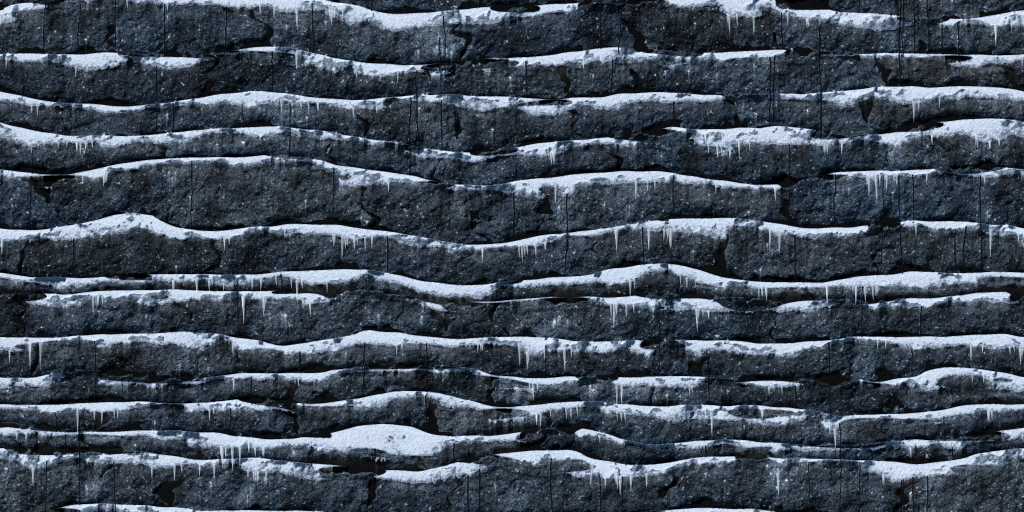
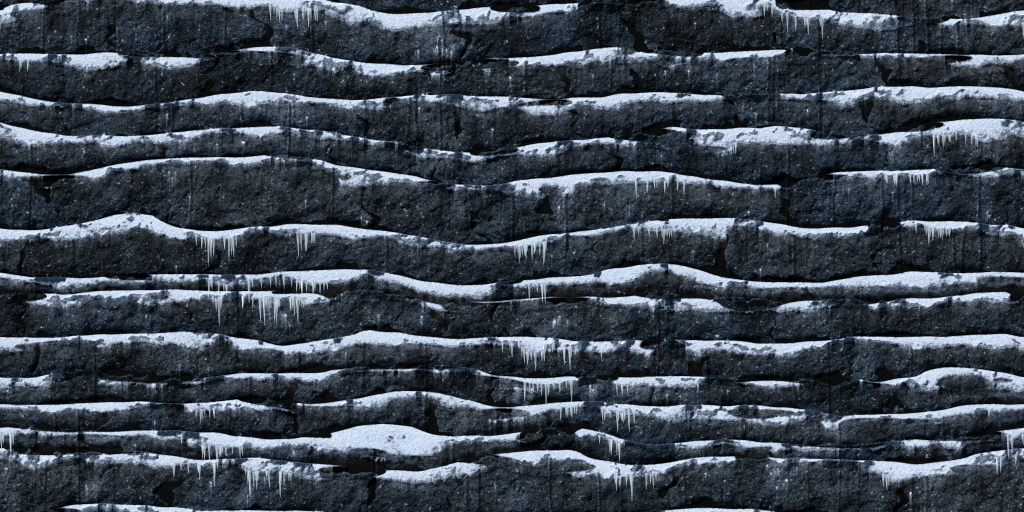
Версия 2026.11.02-121: по критику r38 — исправлена оранжевая заливка перекрытий (ошибка v117), трава ярче и теплее, пол тоннелей каньона светлый, Арктика
Ошибка v117: строка палуб пиратов в floorShade встала между «else if (WT)» и последним «else», и оранжевая заливка
150/104/62 ложилась на верх перекрытий остальных карт (стяжка города «ржавая», полы без волокон) — порядок восстановлен.
Трава долины и замков ярче и теплее (по пикселям травы и эталонов), стяжка города серая 63/57/53 с мокрой кромкой.
Каньон: корка на полу тоннелей освещена, тень под коркой короче, обломки корки плоские. Арктика: шапка тоньше,
швы глыб — мягкие впадины с фаской, порода темнее, сосульки гроздьями. Стыки балки палуб — со случайным шагом. Мох Alien оливковый.

Claude-Session: https://claude.ai/code/session_01JvXrYdG1XCH4i3GESsQzbh

diff --git a/js/terrain_visual.js b/js/terrain_visual.js
@@ -303,7 +303,7 @@ function offGlass(S, lx, ly, idx, o) {
 }
 
 /* v112: цвет мха шапки Alien до фонового света темы (×0.52/0.45/0.69): верх, середина, губа; яркость — из текстуры cap_moss */
-const MOSS_C = [[250, 240, 96], [210, 202, 78], [104, 102, 44]];
+const MOSS_C = [[196, 206, 104], [166, 176, 88], [92, 98, 50]];   /* v121 (критик r38: мох «розово-бежевая губка» 96/71/60; эталон оливковый 87/78/64 — до фонового света ×0,52/0,45/0,69) */
 /** цвет материала в точке. Результат в o: r,g,b; свечение ga/gr/gg/gb; блеск spec */
 function shadeMaterial(S, mt, x, y, t, capT, d, info, o, isBack) {
   const tl = S.tiles, LX = LIGHT.x, LY = LIGHT.y, LZ = LIGHT.z;
@@ -390,13 +390,13 @@ function shadeMaterial(S, mt, x, y, t, capT, d, info, o, isBack) {
     } else if (S.rubbleCap) {
       /* v101 (критик r35: «корка каньона белёсая 14 px; эталон 165/115/72, ~30 px, щебень и пучки травы»): корка из комьев и щебня
          3–8 px — у каждого свой тон (часть серее), свет сверху слева, тёмные щели между ними; без светлой нитки по верху */
-      const V = S.vs, SX = 3.6, SY = 4.2, sx = Math.floor(x * SX), sy = Math.floor(y * SY + x * 0.4), vi = ((sy & 255) << 8) | (sx & 255);
+      const V = S.vs, SX = 1.7, SY = 4.2, sx = Math.floor(x * SX), sy = Math.floor(y * SY + x * 0.4), vi = ((sy & 255) << 8) | (sx & 255);   /* v121 (критик r38: «круглая брусчатка 10–15 px»; эталон — плоские обломки 2–3:1): ячейки вдвое шире */
       const id = V.id[vi], e = V.ed[vi] / 8 / SY, hq = V.rnd[id], hq2 = V.rnd2[id], lit = (V.vx[vi] / SX + V.vy[vi] / SY) / 2 / 4.2;
       f = (0.88 + hq * 0.52) * (1 + 0.3 * Math.max(-1, Math.min(1, lit))) + (n1 - 0.5) * 0.16;   /* v117 (критик r37: «брусчатка»; эталон — светлая рыхлая крошка: L95 190, разброс 45–50 против наших 160 и 29) */
       if (e < 0.6) f *= 0.5 + 0.5 * e / 0.6;                                                  // щель между комьями
       if (hq2 > 0.68) { const L = (r + g + bl) / 3, q = 0.45; r += (L - r) * q; g += (L - g) * q; bl += (L - bl) * q; }   // серый щебень песчаника
       if (t < 1.5) f *= 1.05;
-      if (k > 0.78) f *= 1 - (k - 0.78) * 1.5;
+      if (k > 0.78) f *= 1 - (k - 0.78) * 0.6;   /* v121 (критик r38: под коркой тёмная полоса до L 36) — низ корки мягче */
     } else {
       const blade = tl.t1[((y >> 2 & 255) << 8) | (x & 255)];
       f = 0.9 + n2 * 0.1 + (blade - 0.5) * 0.22;
@@ -409,7 +409,7 @@ function shadeMaterial(S, mt, x, y, t, capT, d, info, o, isBack) {
     // фотореалистичная земля из Blender: цвет и свет уже в текстуре; добавляем тень под травяной губой и глубину
     const sd = t - capT; texAt(S.tx.dirt, x, y, o); r = o.r * S.tgR; g = o.g * S.tgG; bl = o.b * S.tgB; o.tex = true;
     if (S.glowTex && S.glowDirt && !isBack && texGlow(S, o, r, g, bl)) { r = o.r; g = o.g; bl = o.b; }   /* v91: кристаллы в насыпи Alien светятся */
-    if (capT > 0 && sd < 12) { const k = sd < 5 ? 0.42 : 0.62 + (sd - 5) * 0.054; r *= k; g *= k * 0.96; bl *= k * 0.93; }
+    if (capT > 0 && sd < 12) { const k = S.rubbleCap ? (sd < 2 ? 0.66 : sd < 4 ? 0.84 : 1) : sd < 5 ? 0.42 : 0.62 + (sd - 5) * 0.054; r *= k; g *= k * 0.96; bl *= k * 0.93; }   /* v121 (критик r38, каньон: под коркой тень 18–20 px до L 36; эталон — 3–4 px, сразу L 67–81) */
     if (S.mossLip && capT > 0 && sd < 16) {                                                   /* v90: свисающие пряди мха (эталон Alien) */
       const dl = mossDrip(tl, x);
       if (sd < dl) { const q = sd / dl; if (S.tx.cap) { texAt(S.tx.cap, x, y + 61, o); const f = (o.r + o.g + o.b) / S.capMean * (1 - q * 0.55) * 0.62; r = MOSS_C[1][0] * f; g = MOSS_C[1][1] * f; bl = MOSS_C[1][2] * f; o.tex = false; }   /* v112: свес — тот же мох (текстура: чётко при приближении) */
@@ -498,7 +498,7 @@ function shadeMaterial(S, mt, x, y, t, capT, d, info, o, isBack) {
       отсвет в текстуре (texGlow) — прежние */
       const K = S.rockK, L0 = r * 0.3 + g * 0.59 + bl * 0.11, c = 1 / (1 + Math.max(0, L0 - 120) / 160); r *= K[0] * c; g *= K[1] * c; bl *= K[2] * c;
     }
-    if (capT > 0 && t - capT < 10) { const sd = t - capT, q = 1 - sd / 10, k = S.snowy ? 1 - 0.45 * q * q : sd < 4 ? 0.5 : 0.66 + (sd - 4) * 0.057; r *= k; g *= k; bl *= k; }
+    if (capT > 0 && t - capT < 10) { const sd = t - capT, q = 1 - sd / 10, k = S.snowy ? 1 - 0.45 * q * q : S.rubbleCap ? (sd < 2 ? 0.66 : sd < 4 ? 0.84 : 1) : sd < 4 ? 0.5 : 0.66 + (sd - 4) * 0.057; r *= k; g *= k; bl *= k; }
     { const sd = t - capT, dk = Math.max(0, Math.min(1, (y - S.H * 0.35) / (S.H * 0.6))), up = sd < 60 ? 1.08 - sd / 60 * 0.08 : 1; const k = (1 - 0.08 * dk) * up; r *= k; g *= k * 0.98; bl *= k * 0.96; }   // глубже — темнее, у освещённого верха светлее
     /* r31: «лавовые трещины — короткие чёрточки, нужна связная сеть 1–3 px с ореолом»: у вулкана поверх фото-плит — та же
        ветвистая сеть раскалённых трещин, что в процедурной породе (veinDist), на ~45 % площади, с отсветом на камень */
@@ -935,17 +935,17 @@ function floorShade(S, mt, x, y, t, i, W, m, back, sid, infos, o) {
   if (tf >= 8 || y - t - 2 < 0 || !back[i - (t + 2) * W] || m[i - (t + 2) * W]) return;
   const WT = TexLib.data.wood_light;
   if (mt === 5) {   /* бетонное перекрытие: тёмная затёртая стяжка с редкими швами плит (светлая «плитка» 118–148 под ночным грейдом города была сиреневыми пластинами: L 79 против 48 у эталона) */
-    let v; if (S.flatSlab) { if (S.tx.concrete) texAt(S.tx.concrete, x, y + 23, o); v = 92 + o.n1 * 14 + (hash3(x >> 1, y, 71) - 0.5) * 10; }   /* v116: ссылка на бетон — при приближении стяжка из родной ×4 с зерном, а не размытый пиксель */   /* v110: ровная серая стяжка (текстура бетона, растянутая ×2 по высоте, давала чёрные полосы) */
+    let v; if (S.flatSlab) { if (S.tx.concrete) texAt(S.tx.concrete, x, y + 23, o); v = 82 + o.n1 * 14 + (hash3(x >> 1, y, 71) - 0.5) * 10; }   /* v116: ссылка на бетон — при приближении стяжка из родной ×4 с зерном, а не размытый пиксель */   /* v110: ровная серая стяжка (текстура бетона, растянутая ×2 по высоте, давала чёрные полосы) */
     else if (S.tx.concrete) { texAt(S.tx.concrete, x, y * 2 + 23, o); v = (o.r + o.g + o.b) / 3 * 0.5; } else v = 70 + o.n1 * 12;
-    if (S.flatSlab) { o.r = v * 1.18; o.g = v * 1.0; o.b = v * 0.68; } else { o.r = v * 1.06; o.g = v * 0.99; o.b = v * 0.8; }   /* v116: верх плиты светлее и теплее (эталон: кромка 65/58/54 на экране, у нас было 37/35/42) */
+    if (S.flatSlab) { o.r = v * 1.4; o.g = v * 1.27; o.b = v * 0.84; }   /* v121 (критик r38: стяжка «ржаво-медная» 77/54/46 — её давала ошибка v117: в floorShade последний else, оранжевая заливка 150/104/62, сработал после строки палуб пиратов; цель 64/57/53) */ else { o.r = v * 1.06; o.g = v * 0.99; o.b = v * 0.8; }   /* v116: верх плиты светлее и теплее (эталон: кромка 65/58/54 на экране, у нас было 37/35/42) */
     if (x % 48 < 1) { o.r *= 0.6; o.g *= 0.6; o.b *= 0.6; }   /* r24: под ночным грейдом стяжка синела (B/R 1.27) */
   } else if (mt === 6) { const tl2 = ((x >> 4) + (y >> 3)) & 1; const v = 118 + tl2 * 16 + o.n1 * 14; o.r = v; o.g = v * 0.97; o.b = v * 0.92; if ((x & 15) === 0) { o.r *= 0.6; o.g *= 0.6; o.b *= 0.6; } }
   else if (WT) { texAt(WT, x * 1.0, y * 2 + 37, o); const l = (o.r + o.g + o.b) / 3; o.r = (l + (o.r - l) * 0.68) * 0.97; o.g = (l + (o.g - l) * 0.68) * 0.93; o.b = (l + (o.b - l) * 0.68) * 0.86; }   /* доски пола: спокойнее, без «оранжевого пластика» */
-  if (S.glass && mt === 4 && WT && tf >= 1.2) { const k = tf < 2.4 ? 0.82 : 0.5; o.r *= k; o.g *= k * 0.96; o.b *= k * 1.02; if (x % 37 < 1.4) { o.r *= 0.18; o.g *= 0.18; o.b *= 0.18; } }   /* v117 (критик r37, пираты: «кромки палуб — светлые полосы 6–8 px»; эталон — блик 1–2 px и тёмная балка 73/48/36, щели досок 2–3 px почти чёрные) */
   else { o.r = 150; o.g = 104; o.b = 62; }
-  const ek = mt === 5 ? 0.2 : 0.4;   /* у бетона кромка скромнее */
+  if (S.glass && mt === 4 && WT && tf >= 1.2) { const k = tf < 2.4 ? 0.82 : 0.5; o.r *= k; o.g *= k * 0.96; o.b *= k * 1.02; { const sg = Math.floor(x / 211), gx = sg * 211 + 40 + hash3(sg, y >> 5, 41) * 130; if (Math.abs(x - gx) < 0.7) { o.r *= 0.18; o.g *= 0.18; o.b *= 0.18; } } }   /* v121 (критик r38: щели строго через 60 px — «клавиши»): стыки балки через 120–300 ед. со своим сдвигом у каждой палубы */   /* v117 (критик r37, пираты: «кромки палуб — светлые полосы 6–8 px»; эталон — блик 1–2 px и тёмная балка 73/48/36, щели досок 2–3 px почти чёрные) */
+  const ek = mt === 5 ? (S.flatSlab ? 0.42 : 0.2) : 0.4;   /* у бетона кромка скромнее; v121: у плит города — мокрая светлая кромка L 100–110 (эталон) */
   if (under && tf < 2) { o.r *= 0.45; o.g *= 0.45; o.b *= 0.45; }   // под баррикадой — контактная тень вместо освещённой кромки
-  else if (!under && tf < 1.2) { o.r = o.r * (1 - ek) + 255 * ek; o.g = o.g * (1 - ek) + 236 * ek; o.b = o.b * (1 - ek) + 200 * ek; }   // освещённая кромка пола
+  else if (!under && tf < (mt === 5 && S.flatSlab ? 2.0 : 1.2)) { o.r = o.r * (1 - ek) + 255 * ek; o.g = o.g * (1 - ek) + 236 * ek; o.b = o.b * (1 - ek) + (S.flatSlab ? 236 : 200) * ek; }   // освещённая кромка пола
   else if (tf >= 6.5) { const k = S.flatSlab ? 0.62 : 0.35; o.r *= k; o.g *= k; o.b *= k; }   // тёмный шов между полом и перекрытием (у плит города мягче)
   o.tex = true; if (!(mt === 5 && S.flatSlab && S.tx.concrete)) o.tT = null;
 }
@@ -1102,7 +1102,7 @@ function buildTerrainVisual(T, theme, map, raster, waterY) {
     } }
   const outl = hex2rgb(G.outline); const capThick = G.cap.thick * 1.45;
   // толщина снежной шапки по столбцам — та же для заливки и для сосулек под её губой (drawSurfaceDetails)
-  if (snowLip) { T.snowCapT = new Float32Array(W); for (let x = 0; x < W; x++) T.snowCapT[x] = Math.max(8, capThick * (0.38 + 0.36 * (fbm1(x / 170, seed + 7, 2) + 1) * 0.5 + 0.34 * (fbm1(x / 48, seed + 9, 2) + 1) * 0.5) + snowLip[x]); }   /* v117 (критик r37: шапка — ровная «труба» 38–44 px): толщина 12–40 ед. волной 40–100 ед. */   /* толщина меняется плавно: низ шапки без «чёрных гор» */
+  if (snowLip) { T.snowCapT = new Float32Array(W); for (let x = 0; x < W; x++) T.snowCapT[x] = Math.max(8, capThick * (0.2 + 0.18 * (fbm1(x / 170, seed + 7, 2) + 1) * 0.5 + 0.2 * (fbm1(x / 48, seed + 9, 2) + 1) * 0.5) + snowLip[x]); }   /* v121 (критик r38: толщина p50 52 px при 29 у эталона): тоньше */   /* v117 (критик r37: шапка — ровная «труба» 38–44 px): толщина 12–40 ед. волной 40–100 ед. */   /* толщина меняется плавно: низ шапки без «чёрных гор» */
   const rim = hex2rgb(G.rim || theme.sky[1]);
   const tint = hex2rgb(theme.backTint || '#0a0e1a');
   const bounce = hex2rgb(theme.sky[2] || theme.sky[1]);
@@ -1184,6 +1184,7 @@ function buildTerrainVisual(T, theme, map, raster, waterY) {
         if (BD[i] < 10 && mt !== 8) f *= 0.7 + BD[i] * 0.03;                  // низ навесов темнее
         const shd = dd <= 30 ? shadowAt(x, y) : 0;                              // отброшенная тень
         if (shd > 0.02) f *= 1 - shd * (mt === 3 ? 0.18 : o.cap ? CAPSH : 0.42);   /* на снегу тень мягче: рассеянный лунный свет и отражение снега (без «грязных пятен») */
+        if (S.caveCap && o.cap && cf) f = Math.max(f, 1.28);   /* v121 (критик r38: корка на полу тоннелей — тёмная полоса L 45–67; эталон — освещённый уступ L 130–193) */
         if (S.flatSlab && mt === 5) f = Math.max(f, 0.66);   /* v110 (критик r36: плиты — «тёмно-синие балки» 10/13/35): низ плиты под комнатой не тонет
            в черноту — холодная тень, S-кривая и ночной свет окрашивали его в густо-синий; эталон — бетон ~35/38/53 */
         // блик на гладких материалах
@@ -1357,7 +1358,7 @@ function drawSurfaceDetails(T, theme, seed, waterY, tops, ceils, mat, backArr) {
     const gh = grassTex.h, gw = grassTex.w, meadow = theme.id === 'valley' || theme.id === 'castle';
     /* v110 (критик r36: «трава сине-зелёная и вдвое темнее»; эталон — оттенок 57°, медиана 74/72/30 в долине, 50/49/23 на закате
        в замках, у нас было 85°, 33/46/16): фильтр полосы травы подобран по пикселям текстуры (sepia → hue → saturate → brightness) */
-    const GF = theme.id === 'castle' ? 'sepia(0.2) hue-rotate(-22deg) saturate(0.7) brightness(1.5)' : 'sepia(0.39) hue-rotate(-17deg) saturate(1.05) brightness(2.1)';   /* v118 (критик r37: кончики травы p90 L 92–99 → 130–145) — ярче */
+    const GF = theme.id === 'castle' ? 'sepia(0.36) hue-rotate(-42deg) saturate(0.65) brightness(2.5)' : 'sepia(0.45) hue-rotate(-34deg) saturate(0.95) brightness(2.45)';   /* v121 (критик r38: трава замков 55/57/26 при эталоне 86/71/47, долины 81/82/46 при 97–110/78–100/43–63 — ярче и теплее, R/G 0,96 → 1,15–1,2) */   /* v118 (критик r37: кончики травы p90 L 92–99 → 130–145) — ярче */
     let img = grassTex.canvas;
     if (meadow) {
       img = makeCanvas(gw, gh); const sx = img.getContext('2d');
@@ -1977,7 +1978,7 @@ function drawSurfaceDetails(T, theme, seed, waterY, tops, ceils, mat, backArr) {
     // v114 (критик r36, каньон: «карнизы полок из щебня»; эталон — светлая россыпь песчаника по полу тоннелей): и в каньоне, вдвое
     // гуще; камни — в слое растений (cs): при приближении перерисовываются чётко, а не растягиваются
     if (theme.id === 'valley' || theme.id === 'castle' || theme.id === 'desert') {
-      const sand = theme.id === 'desert', dens = sand ? 0.22 : 0.07;
+      const sand = theme.id === 'desert', dens = sand ? 0.14 : 0.07;
       const rubCols = sand ? [[176, 132, 90], [156, 114, 76], [194, 152, 106], [136, 98, 66], [168, 128, 92]] : [[92, 86, 78], [78, 72, 64], [104, 98, 88], [68, 62, 54], [86, 82, 76]];
       for (let k = 0; k < tops.length; k += 2) {
         const x = tops[k], y = tops[k + 1];
@@ -1985,7 +1986,7 @@ function drawSurfaceDetails(T, theme, seed, waterY, tops, ceils, mat, backArr) {
         anchor(x, y);
         const big = hash3(x, y, seed + 122) > (sand ? 0.7 : 0.78), R = (big ? 3 + hash3(x, 1, seed + 123) * 1.6 : 1.1 + hash3(x, 1, seed + 123) * 1.6) * (sand ? 1.35 : 1);
         const col = rubCols[(hash3(x, 2, seed + 124) * rubCols.length) | 0], nv = 5 + ((hash3(x, 3, seed + 125) * 3) | 0), rot = hash3(x, 4, seed + 126) * TAU, cy = y - R * 0.5;
-        cs.fillStyle = 'rgba(10,8,6,0.5)'; cs.beginPath(); cs.ellipse(x + R * 0.3, y + 0.5, R * 1.3, R * 0.4, 0, 0, TAU); cs.fill();   // контактная тень
+        cs.fillStyle = sand ? 'rgba(10,8,6,0.22)' : 'rgba(10,8,6,0.5)'; cs.beginPath(); cs.ellipse(x + R * 0.3, y + 0.5, R * 1.3, R * 0.4, 0, 0, TAU); cs.fill();   // контактная тень (у песчаника слабее: тени камешков сливались в тёмную полосу пола)
         const gr = cs.createLinearGradient(x - R, cy - R, x + R, cy + R);
         gr.addColorStop(0, `rgb(${col[0] * 1.3 | 0},${col[1] * 1.3 | 0},${col[2] * 1.28 | 0})`); gr.addColorStop(0.5, `rgb(${col[0]},${col[1]},${col[2]})`); gr.addColorStop(1, `rgb(${col[0] * 0.45 | 0},${col[1] * 0.45 | 0},${col[2] * 0.48 | 0})`);
         cs.fillStyle = gr; cs.beginPath();

diff --git a/index.html b/index.html
@@ -114,7 +114,7 @@
         </div>
       </div>
     </div>
-    <footer class="menu-footer"><span id="game-version">ВЕРСИЯ 2026.11.02-120</span><span>ПЛАНИРУЙ ХОД. МЕНЯЙ ЛАНДШАФТ.</span><span class="footer-status"><i></i> ГОТОВ К БОЮ</span></footer>
+    <footer class="menu-footer"><span id="game-version">ВЕРСИЯ 2026.11.02-121</span><span>ПЛАНИРУЙ ХОД. МЕНЯЙ ЛАНДШАФТ.</span><span class="footer-status"><i></i> ГОТОВ К БОЮ</span></footer>
   </section>
 
   <!-- Онлайн -->

diff --git a/dev/tools/desalt_rock.py b/dev/tools/desalt_rock.py
@@ -1,6 +1,6 @@
 """Убирает белую «соль» на тёмной породе (критик r36, Арктика: «меньше белых точек-соли в 1 px»).
 
-python dev/tools/desalt_rock.py <родная.webp> <выход.png> [--k 7] [--thr 22] [--keep 0.15] [--dark 95] [--gain 1.04] [--frost 0.7] [--snowk 1.3] [--icicles 0.3] [--seams 1]
+python dev/tools/desalt_rock.py <родная.webp> <выход.png> [--k 7] [--thr 22] [--keep 0.15] [--dark 95] [--gain 0.86] [--frost 0.7] [--snowk 1.3] [--icicles 0.14] [--seams 1]
 затем: python dev/make_native.py <выход.png> <имя> --no-match --lossy --quality 90   (малая — точное уменьшение родной)
 
 Крупинки — светлые пятнышки уже k пикселей родной текстуры, ярче фона больше чем на thr (белый «цилиндр»: L − открытие L):
@@ -35,9 +35,9 @@ def main():
     ap.add_argument('src'); ap.add_argument('out')
     ap.add_argument('--k', type=int, default=7); ap.add_argument('--keep', type=float, default=0.45); ap.add_argument('--thr', type=float, default=30)
     ap.add_argument('--dark', type=float, default=95)
-    ap.add_argument('--gain', type=float, default=1.04); ap.add_argument('--frost', type=float, default=0.7)
+    ap.add_argument('--gain', type=float, default=0.86); ap.add_argument('--frost', type=float, default=0.7)
     ap.add_argument('--frostd', type=float, default=24); ap.add_argument('--snowL', type=float, default=108)
-    ap.add_argument('--snowk', type=float, default=1.3); ap.add_argument('--icicles', type=float, default=0.3); ap.add_argument('--seams', type=int, default=1)
+    ap.add_argument('--snowk', type=float, default=1.3); ap.add_argument('--icicles', type=float, default=0.14); ap.add_argument('--seams', type=int, default=1)
     a = ap.parse_args()
     img = np.asarray(Image.open(a.src).convert('RGB'), dtype=np.float32)
     L = img @ np.array([0.299, 0.587, 0.114], np.float32)
@@ -82,23 +82,23 @@ def main():
                 ys.append(y)
             ya, yb = min(ys), max(ys)
             if yb - ya < 40: continue
-            xs = x0 + np.cumsum(rng.normal(0, 0.35, yb - ya + 1)); wd = rng.uniform(2.5, 3.5); n += 1
+            xs = x0 + np.cumsum(rng.normal(0, 0.35, yb - ya + 1)); wd = rng.uniform(6, 10); n += 1   # v121 (критик r38: «чёрные волоски 1–2 px»): мягкая впадина 4–7 px кадра
             for k, y in enumerate(range(ya, yb + 1)):
                 cx = xs[k]
-                for xx in range(int(cx - wd - 2), int(cx + wd + 3)):
+                for xx in range(int(cx - wd - 4), int(cx + wd + 3)):
                     dxx = xx - cx; xw = xx % W; yw = y % H
-                    if abs(dxx) < wd: al = min(1.0, wd - abs(dxx)); out[yw, xw] = out[yw, xw] * (1 - al * 0.85) + np.array([12, 15, 22], np.float32) * al * 0.85
-                    elif -wd - 2 < dxx <= -wd: out[yw, xw] = np.minimum(255, out[yw, xw] * 1.25 + 6)   # светлая кромка слева (свет сверху слева)
+                    if abs(dxx) < wd: q = 1 - abs(dxx) / wd; out[yw, xw] = out[yw, xw] * (1 - 0.42 * q * q * (3 - 2 * q))   # глубже к середине, ΔL −15…−20
+                    elif -wd - 4 < dxx <= -wd: out[yw, xw] = np.minimum(255, out[yw, xw] * 1.22 + 4)   # светлая фаска слева (свет сверху слева)
         print('seams: %d' % n)
     if a.icicles > 0:
         H, W = L.shape; rng = np.random.default_rng(9)
-        g = nd.gaussian_filter(rng.standard_normal((H, W)).astype(np.float32), 40, mode='wrap')
+        g = nd.gaussian_filter(rng.standard_normal((H, W)).astype(np.float32), 110, mode='wrap')   # v121: гроздьями (критик r38: «по 1–3 под каждой кромкой» → 4–6 гроздьев, ≥ 60 % кромок без сосулек)
         thick = snow.copy()
         for q in range(1, 15): thick &= np.roll(snow, q, 0)                 # над кромкой ≥ 15 px снега — карниз, а не тонкая полоса
         edge = thick & ~np.roll(snow, -1, 0)                               # снег, под ним порода: нижняя кромка полосы
         ey, ex = np.nonzero(edge)
         thr = np.quantile(g[ey, ex], 1 - a.icicles)
-        sel = (g[ey, ex] > thr) & (rng.random(len(ey)) < 1 / 34)
+        sel = (g[ey, ex] > thr) & (rng.random(len(ey)) < 1 / 13)
         n = 0
         for y0, x0 in zip(ey[sel], ex[sel]):
             u = rng.random(); Lc = rng.uniform(25, 50) if u < 0.7 else rng.uniform(50, 80) if u < 0.95 else rng.uniform(80, 110)

diff --git a/dev/reviews/r29.md b/dev/reviews/r29.md
@@ -229,3 +229,21 @@ v119 (по r37, каньон): объём пластов песчаника — 
 v120 (по r37, город: «сетка одинаковых окон»): фасад (make_facade.py) — решётки на 12 % окон (прутья через 3 ед.), балконы
 с перилами у 10 % (ниже точки пробы окна — игра по-прежнему различает горящие), потёки ржавчины под подоконниками у трети окон,
 два провисших кабеля поперёк плитки; горящие окна в кадре — средняя L 167 (эталон 166–170).
+
+## r38 (02.11, кадры v118 через видеокарту — FORCEGL=1)
+canyon 7, arctic 6,5, volcano 6, alien 6, pirate 6,5, castles 7, city 5,5, valley 7 — средняя 6,4 (r37: 6,3).
+Хуже: пол тоннелей каньона потемнел (корка caveCap L 45–67, эталон — светлый уступ 130–193), угольков вулкана вдвое меньше,
+стяжка города ушла в ржавчину (77/54/46, цель 64/57/53), швы Арктики — чёрные волоски, щели балки палуб строго через 60 px.
+Не видно в кадре: яркость травы долины и замков (±1), толщина и свет диагональной шапки Арктики (верх темнее середины, p50
+толщины 52 px при 29), бледное пятно вулкана слева внизу (113/75/63), борт пиратов (σL 11,5 при 26). Топ: трава ярче и теплее
+(долина 101/94/58, замки 79/72/45); Alien — угловатые глыбы, мох оливковый с просветами и прядями, друзы 60 % голубые с белым
+ядром; вулкан — верх склона ×0,6, угольки ×2,5, ядра расплава белёсо-жёлтые; город — кондиционеры со светлым ободом и тёмным
+вентилятором шириной в окно, детали торцов и крыш; пираты — тон досок борта ±15 L, тёплый блик кромки, волокна ×2.
+v121 (по r38): ИСПРАВЛЕНА ОШИБКА v117 — в floorShade строка палуб пиратов встала между «else if (WT)» и последним «else», и
+оранжевая заливка 150/104/62 ложилась на верх перекрытий всех карт, кроме пиратской (стяжка города «ржаво-медная», полы замков
+и долины без волокон). Трава долины и замков ярче и теплее (фильтр подобран по пикселям травы: замки 55/57/26 → 74/68/36 при
+эталоне 86/71/47, долина 81/82/46 → 93/86/52 при 97–110/78–100); стяжка плит города 63/57/53 (цель 64/57/53) с мокрой светлой
+кромкой 2 ед.; каньон — корка на полу тоннелей освещена (f ≥ 1,28), тень под коркой 2–4 ед. вместо 10–12, обломки корки
+плоские 2–3:1 (ячейки вдвое шире), низ корки мягче, контактные тени камешков пола слабее; Арктика — диагональная шапка тоньше
+(≈20 ед. вместо 32), швы глыб — мягкие впадины 6–10 px родной со светлой фаской (вместо чёрных волосков), порода ×0,86,
+сосульки гроздьями (шум 110 px, 14 % кромок); палубы пиратов — стыки балки через 120–300 ед. со сдвигом; мох Alien оливковый.

diff --git a/dev/NEXT_STEPS.md b/dev/NEXT_STEPS.md
@@ -29,7 +29,13 @@
   под нижним краем острова; город — торцы/крыша без синевы.
 - [x] v120: город — на фасаде решётки, балконы, потёки ржавчины, кабели.
 - [x] v119: каньон — объём пластов и вторичные линии напластования (strata_volume.py, MF 8,7 → 9,1 при 11,1).
-- [ ] Критик r38 по кадрам v117.
+- [x] Критик r38 (кадры v118): средняя 6,4 (canyon 7, arctic 6,5, volcano 6, alien 6, pirate 6,5, castles 7, city 5,5, valley 7).
+- [x] v121 (по r38): исправлена ошибка v117 в floorShade (оранжевая заливка перекрытий), трава ярче и теплее, стяжка города,
+  пол тоннелей каньона светлый, шапка Арктики тоньше, мягкие швы и сосульки гроздьями, стыки палуб, мох Alien.
+- [ ] Дальше по r38: вулкан — бледное пятно слева внизу, верх склона ×0,6, угольки ×2,5, ядра расплава светлее;
+  пираты — борт: тон досок ±15 L, блик кромки, волокна ×2; город — кондиционеры со светлым ободом и тёмным вентилятором
+  шириной в окно; Alien — угловатые глыбы (make_rubble.py poly — проба готова), друзы 60 % голубые с белым ядром.
+- [ ] Критик r39.
 
 ## Версии 100–105 — 26–28.10 (правки критика r35; подробно — dev/reviews/r29.md)
 
